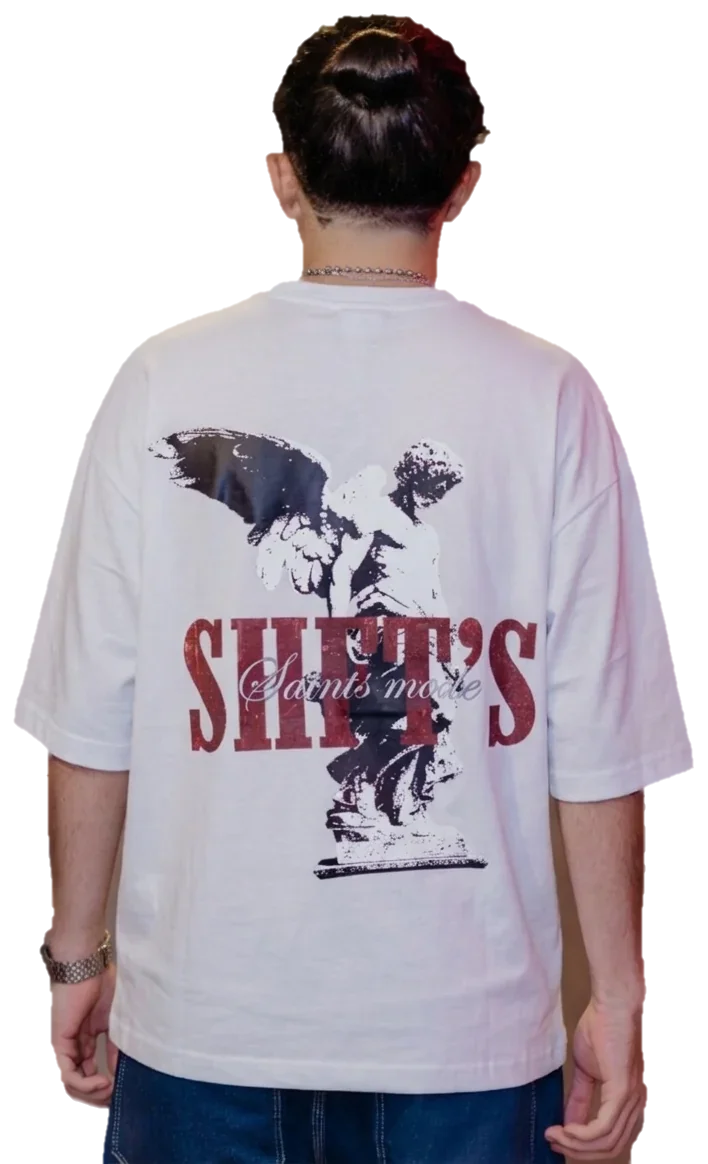
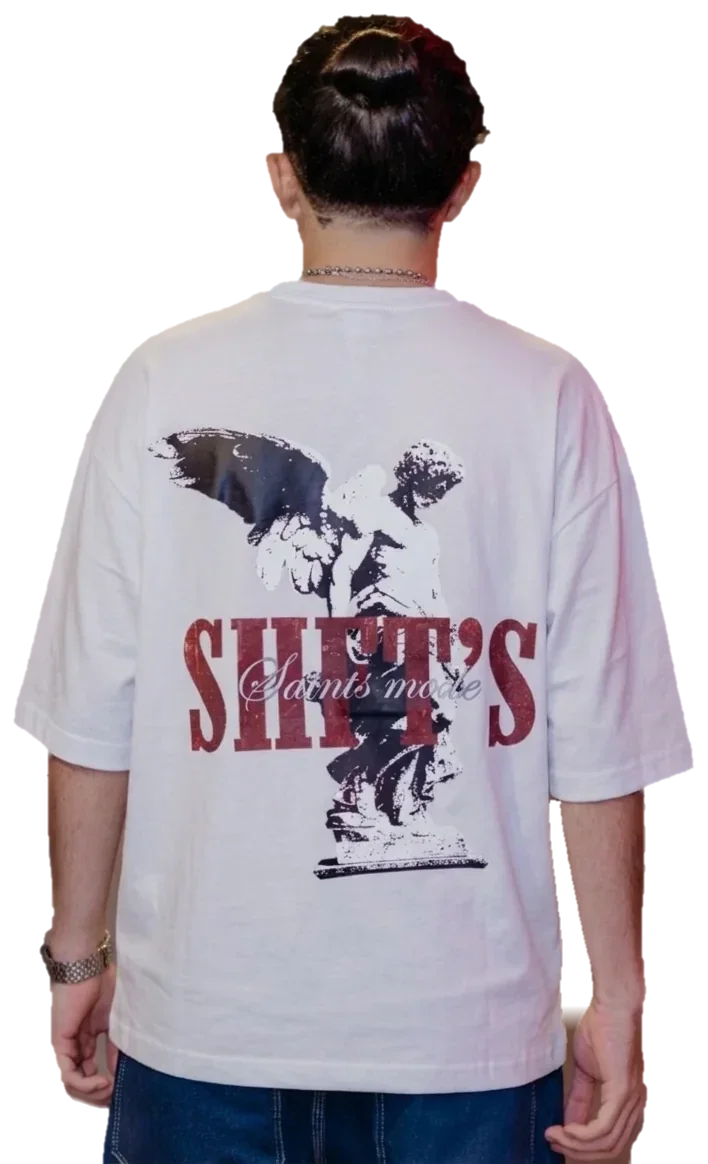
Angel Victoria: cabeza y oreja del muchacho, hueco entre brazo y camiseta, brazo de la modelo de rizos
Claude-Session: https://claude.ai/code/session_013ynmKTYERfCmJQKP2pb1Nx

Changed region(s): [[0.7768, 0.6804, 0.839, 0.8969]]

diff --git a/index.html b/index.html
@@ -86,7 +86,7 @@
       "./js/core/cart-store.js": "./js/core/cart-store.js?v=0a8191d0",
       "./js/core/store.js": "./js/core/store.js?v=3f80d2ec",
       "./js/data/lookbook.js": "./js/data/lookbook.js?v=4e79963a",
-      "./js/data/products.js": "./js/data/products.js?v=db2ece3e",
+      "./js/data/products.js": "./js/data/products.js?v=214ec482",
       "./js/main.js": "./js/main.js?v=37902f06",
       "./js/utils/dom.js": "./js/utils/dom.js?v=9f430828",
       "./js/utils/format.js": "./js/utils/format.js?v=1576479a",

diff --git a/js/data/products.js b/js/data/products.js
@@ -241,7 +241,7 @@ export const PRODUCTS = [
 
 // Versión de las fotos: cámbiala cuando reemplaces una foto con el mismo nombre,
 // así el navegador no sigue mostrando la vieja guardada en caché.
-const FOTOS_VERSION = '2026-10-22d';
+const FOTOS_VERSION = '2026-10-22e';
 PRODUCTS.forEach((p) => p.gallery?.forEach((set) => set.forEach((g) => { g.src += `?v=${FOTOS_VERSION}`; })));
 
 /** Productos visibles en la tienda principal (sin los de drops bloqueados). */
